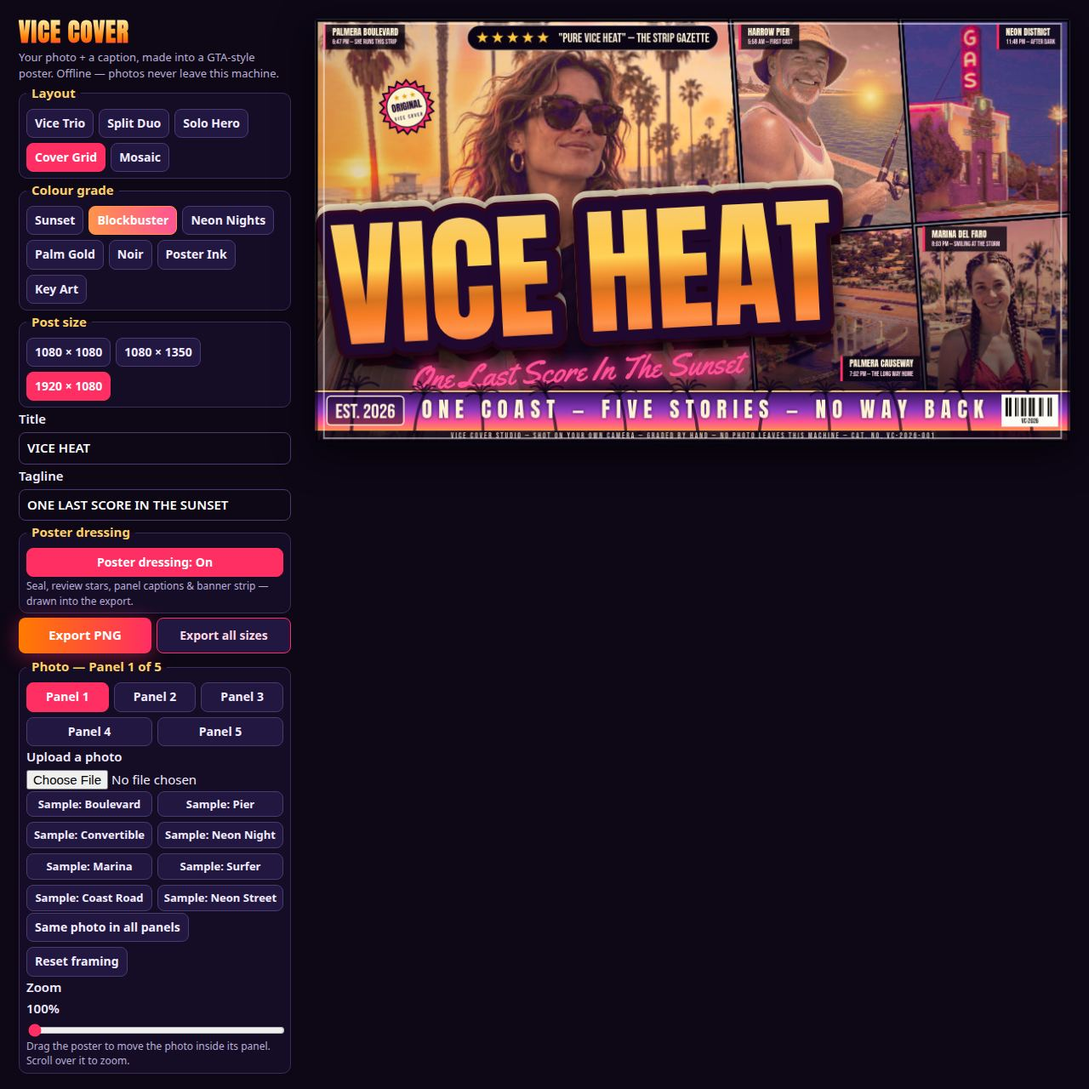
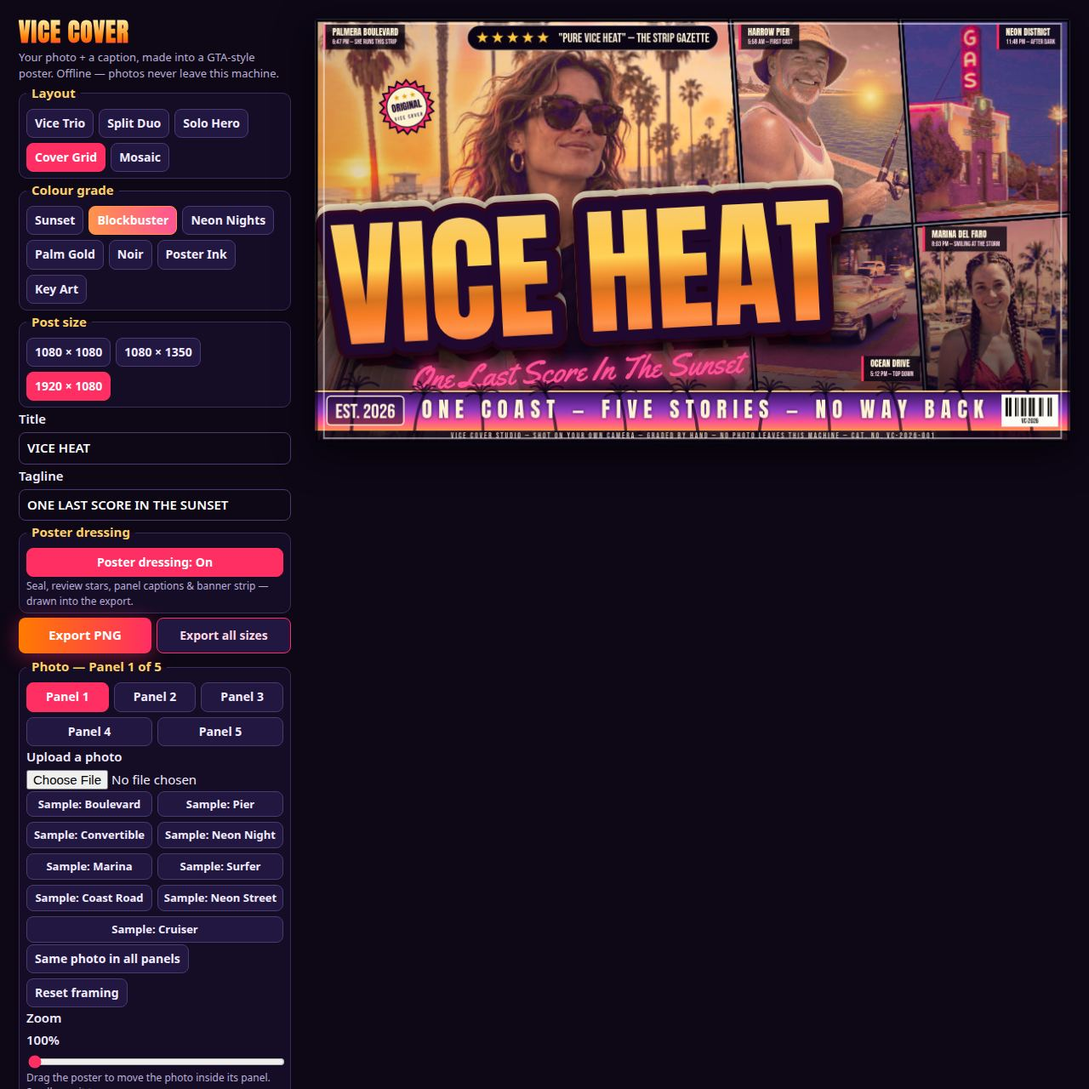
Round 34: cruiser vehicle panel replaces causeway, bold grade

Changed region(s): [[0.0, 0.8438, 0.2812, 1.0], [0.6875, 0.1875, 0.8438, 0.375]]

diff --git a/app/src/shots.js b/app/src/shots.js
@@ -55,31 +55,33 @@ export async function runShot(shot, query, helpers) {
     ? { zoom: 1, oy: 0.85 }
     : undefined;
   // The Blockbuster Grid showcase's scene panels get their own
-  // framings, for the same reason the hero does. The causeway photo
-  // (round 18: an aerial of a Miami causeway — a bridge deck with
-  // cars over turquoise water, the skyline behind) is a wide shot
-  // whose cell (bottom-left, beside the title band) only shows its
-  // lower strip clear of the letters: the showcase zooms and pans
-  // so that strip holds the bridge deck with its cars and the open
-  // water under it, and the panel's chip — which the buried rule
-  // parks low in that same cell — lands on the bay's open water,
-  // clear of the deck, the boats and the shore tree. The neon scene
-  // (round 18: a vintage American service station at dusk, its tall
-  // red GAS blade sign lit) is framed so the sign and the station
-  // front read whole in its top-right cell and the panel's chip —
-  // which hangs at that cell's top-right — lands on pure dusk sky,
-  // clear of the sign. Any other scene keeps the renderer's default
-  // framing exactly.
+  // framings, for the same reason the hero does. The cruiser photo
+  // (round 34: the 1960 Impala convertible street scene restored
+  // from round 26 — silver car whole at photo x 0.06–0.83,
+  // y 0.42–0.66, two people aboard small and distant, a foreground
+  // of plain asphalt and sidewalk below) takes the bottom-left cell
+  // the causeway aerial held: the cell only shows its lower strip
+  // clear of the letters, so the showcase frames the window
+  // (photo x 0.03–0.90, y 0.25–0.94 at zoom 1.15) to hold the whole
+  // car in that strip — the car lands at cell y 0.24–0.60, its
+  // front at cell x 0.04 — and the panel's chip, which the buried
+  // rule parks low in that same cell, lands on the asphalt under
+  // the car's tail, clear of the body. The neon scene (round 18: a
+  // vintage American service station at dusk, its tall red GAS blade
+  // sign lit) is framed so the sign and the station front read whole
+  // in its top-right cell and the panel's chip — which hangs at that
+  // cell's top-right — lands on pure dusk sky, clear of the sign.
+  // Any other scene keeps the renderer's default framing exactly.
   const showcaseScene = state.layout === 'grid' && state.grade === 'blockbuster';
-  const coastFrame = (showcaseScene && third.endsWith('coast.jpg'))
-    ? { zoom: 1.35, ox: 0.82, oy: -0.53 }
+  const cruiserFrame = (showcaseScene && third.endsWith('cruiser.jpg'))
+    ? { zoom: 1.15, ox: 0.49, oy: -0.6 }
     : undefined;
   const neonFrame = (showcaseScene && fourth.endsWith('neon.jpg'))
     ? { zoom: 1.1, ox: -0.44, oy: 0.55 }
     : undefined;
   put(0, first, imgA, heroFrame);
   put(1, second, imgB);
-  put(2, third, imgC, coastFrame);
+  put(2, third, imgC, cruiserFrame);
   put(3, fourth, imgD, neonFrame);
   put(4, fifth, imgE);
   put(5, sixth, imgF);

diff --git a/app/src/poster.js b/app/src/poster.js
@@ -136,8 +136,20 @@ export const GRADES = {
     // exempt panel renders pixel-for-pixel as before. Photos not
     // named here — the pier first of all, but also any photo a user
     // loads of their own — keep the base grade exactly.
+    // Round 34: the dose list trades the causeway photo for the
+    // cruiser — the showcase's bottom-left cell takes the bundled
+    // 1960 Impala street scene (restored from round 26, where it ran
+    // in the marina's cell under the BASE grade and lost narrowly to
+    // the marina portrait) at the full dose factor 1, so the cover
+    // gains the vehicle panel every recent judging round found
+    // missing, and the combination the earlier rounds never tested —
+    // this photo, in the causeway's cell, under the bold grade — is
+    // what this round measures. The two aboard wear their faces small
+    // and distant (no close face enters the cover), and the grade's
+    // skin shields run inside the dosed render exactly as they do at
+    // base. The causeway keeps the base grade wherever else it shows.
     boldPanels: {
-      photos: ['boulevard.jpg', 'coast.jpg', 'neon.jpg', 'marina.jpg'],
+      photos: ['boulevard.jpg', 'cruiser.jpg', 'neon.jpg', 'marina.jpg'],
       ramp: [[0, [19, 8, 46]], [0.24, [96, 34, 112]], [0.46, [194, 57, 114]], [0.68, [244, 102, 66]], [0.86, [255, 176, 102]], [1, [255, 228, 172]]],
       mix: 0.58,
       enrich: { sat: 1.38, curve: 0.24 },
@@ -1906,12 +1918,15 @@ const BANNER_LINE = 'ONE COAST — FIVE STORIES — NO WAY BACK';
 const MICROTEXT = 'VICE COVER STUDIO — SHOT ON YOUR OWN CAMERA — GRADED BY HAND — NO PHOTO LEAVES THIS MACHINE — CAT. NO. VC-2026-001';
 
 // Caption chips for the Grid's five panels, in panel order — the
-// bundled scenes: the boulevard hero, the pier fisherman, the palm
-// causeway at last light, the neon walking street, the marina portrait.
+// bundled scenes: the boulevard hero, the pier fisherman, the Ocean
+// Drive cruiser (round 34: the classic-car street scene takes the
+// causeway aerial's cell, under the bold grade — its chip is round
+// 26's, written for this photo and still literally true of it), the
+// neon walking street, the marina portrait.
 const PANEL_CAPTIONS = [
   ['PALMERA BOULEVARD', '6:47 PM — SHE RUNS THIS STRIP'],
   ['HARROW PIER', '5:58 AM — FIRST CAST'],
-  ['PALMERA CAUSEWAY', '7:02 PM — THE LONG WAY HOME'],
+  ['OCEAN DRIVE', '5:12 PM — TOP DOWN'],
   ['NEON DISTRICT', '11:48 PM — AFTER DARK'],
   ['MARINA DEL FARO', '8:03 PM — SMILING AT THE STORM'],
 ];

diff --git a/app/src/main.js b/app/src/main.js
@@ -13,7 +13,7 @@ const zoomVal = document.getElementById('zoomVal');
 const panelLabel = document.getElementById('panelLabel');
 const panelPicks = document.getElementById('panelPicks');
 
-const SAMPLES = ['samples/boulevard.jpg', 'samples/pier.jpg', 'samples/convertible.jpg', 'samples/night.jpg', 'samples/marina.jpg', 'samples/surfer.jpg', 'samples/coast.jpg', 'samples/neon.jpg'];
+const SAMPLES = ['samples/boulevard.jpg', 'samples/pier.jpg', 'samples/convertible.jpg', 'samples/night.jpg', 'samples/marina.jpg', 'samples/surfer.jpg', 'samples/coast.jpg', 'samples/neon.jpg', 'samples/cruiser.jpg'];
 
 const state = {
   layout: 'trio',

diff --git a/app/index.html b/app/index.html
@@ -83,6 +83,7 @@
         <button type="button" data-sample="samples/surfer.jpg">Sample: Surfer</button>
         <button type="button" data-sample="samples/coast.jpg">Sample: Coast Road</button>
         <button type="button" data-sample="samples/neon.jpg">Sample: Neon Street</button>
+        <button type="button" data-sample="samples/cruiser.jpg">Sample: Cruiser</button>
       </div>
       <div class="row">
         <button type="button" id="fillAll">Same photo in all panels</button>

diff --git a/README.md b/README.md
@@ -4,7 +4,7 @@
 [![rank](https://make.fun/badge/gta6-cover-art-01/cleoworks/gta6-cover-art/rank.svg)](https://make.fun/bounty/gta6-cover-art-01/leaderboard?utm_source=github&utm_medium=readme&utm_campaign=gta6-cover-art-01)
 [![reward](https://make.fun/badge/gta6-cover-art-01/cleoworks/gta6-cover-art/reward.svg)](https://make.fun/bounty/gta6-cover-art-01?utm_source=github&utm_medium=readme&utm_campaign=gta6-cover-art-01)
 
-VICE COVER turns your photos and a caption into GTA 6-style poster cover art: multi-panel layouts (Vice Trio, Split Duo, Solo Hero, a five-panel Cover Grid with one hero panel and four satellites, and Mosaic — a nine-panel 3×3 grid in the classic cover pattern whose lettering sits in a title band below the grid, so all nine panels stay fully visible), a sunset-gradient title with a double outline (a polished chrome gradient in Noir; on Blockbuster the sunset family itself — cream into gold into orange — with a dark plum rim and a hard extruded block of maroon-plum shade stepped under the fill, so the lettering sits in the art the way the winning covers' does), a neon script tagline, and seven colour grades (Sunset, Blockbuster — the photographic class: a continuous 256-step gradient map with no posterize at all, so every strand of hair, skin texture and sparkle of sea survives, enriched by a gentle S-curve and a saturation scale around each pixel's own luminance that pushes the sunset deep and warm while skin stays protected — a skin-tone detector moderates the grade's mix and saturation exactly where skin sits, so faces never go tangerine; detected skin whose hue still sits in the magenta sector is rotated toward the warm brown family with its saturation and value preserved, so a magenta-lit face lands in the same colour family as the field's best covers instead of glowing pink; the sun renders in this grade as a soft photographic glow melted into the panel's own light, never a hard vector disc; and in multi-panel layouts each satellite panel's white balance is walked toward the hero panel's — measured per panel from its graded colours, skin exempt from the walk — so the whole grid reads as one world under one sunset — Neon, Palm Gold, Noir, Poster Ink — a bold screen-print duotone with a firmer posterize and a jittered halftone dot screen that lives in smooth highlights — sky, sea, glint — and fades out over detailed texture (fabric, hair) and off bright neutral surfaces like white clothing entirely, never on faces — and Key Art, the painted class described below), all but Key Art and Blockbuster applied as true gradient maps with a light cel-shade posterize. An optional poster dressing — the furniture of a real one-sheet, drawn procedurally into the poster and therefore into every export while it is on — adds a tilted starburst seal, a five-star review line with a pull-quote above the title, a caption chip on every panel of the Cover Grid (a place, a time, a story beat), a banner strip along the foot with drawn palm silhouettes, a spaced-capital slogan, an EST. 2026 chip and a drawn barcode block, and a one-line credit microtext at the very edge. Noir and Poster Ink carry shadow protection: through the shadows their ramps cross-fade to an un-posterized gradient map, so a face sitting in shade — or a whole photo taken at night — keeps its features instead of collapsing into one flat tone; Noir additionally runs an ordered Bayer dither through its posterize, breaking the flat grey plateaus a B/W quantization leaves on faces into a fine print texture that restores their tonal modelling. Key Art paints instead of grading: the photo is first softened on an edge-aware base (repeated downscale–upscale rounds dissolve photographic micro-detail and skin texture while the big shapes and hard contours survive), then mapped through a warm sunset-family ramp posterized to eight cel bands whose transitions are smoothstepped — colour areas read as flat, graded brush strokes — with shadow protection like Noir's, and finished with drawn ink contours: a Sobel pass over the softened base, computed at quarter resolution, inks the strong edges (hair and jaw silhouettes, hat brims, clothing folds, palm fronds, the horizon) in a warm dark plum-brown in two coats — a soft coat whose alpha follows edge strength, plus a second, near-full-strength coat reserved for the strongest contours alone — so the outlines read as drawn at full-frame scale while faces — whose shading gradients sit far below both ink thresholds — stay clean, under a fine paper grain; even the sun is repainted in this grade — a warm painted disc with soft shadow bands and a thin ink outline in the contour family, not the hard-slit clip-art disc of the graded classes — and the ramp's low end leans violet-to-magenta, so painted shadows keep their Vice purple depth. An automatic exposure lift steadies dark photos before grading (measured on the photo's mean luminance; bright photos pass through completely untouched, genuinely very dark photos get a substantially stronger lift whose highlight shoulder keeps lit neon signs separated instead of blown out, and night shots still look like night). Where a layout has more panels than loaded photos, a photo's later showings are mirrored and re-cropped, so a repeat reads as a different moment of the same shoot rather than a copy-paste. Eight bundled sample photos (three bright Vice scenes, a neon night portrait, a marina portrait in a red dress, a surfer carrying her board at golden hour, an aerial causeway with cars crossing turquoise water and a vintage service station under a neon GAS sign at dusk) show the range; drop in any photos of your own, drag to crop each panel, pick a post size (square, portrait or landscape), and export a share-ready PNG — one size, or all three sizes at once. Everything runs locally in the browser — your photos never leave your machine, and the app works fully offline with no network calls and no Rockstar artwork, logos or fonts.
+VICE COVER turns your photos and a caption into GTA 6-style poster cover art: multi-panel layouts (Vice Trio, Split Duo, Solo Hero, a five-panel Cover Grid with one hero panel and four satellites, and Mosaic — a nine-panel 3×3 grid in the classic cover pattern whose lettering sits in a title band below the grid, so all nine panels stay fully visible), a sunset-gradient title with a double outline (a polished chrome gradient in Noir; on Blockbuster the sunset family itself — cream into gold into orange — with a dark plum rim and a hard extruded block of maroon-plum shade stepped under the fill, so the lettering sits in the art the way the winning covers' does), a neon script tagline, and seven colour grades (Sunset, Blockbuster — the photographic class: a continuous 256-step gradient map with no posterize at all, so every strand of hair, skin texture and sparkle of sea survives, enriched by a gentle S-curve and a saturation scale around each pixel's own luminance that pushes the sunset deep and warm while skin stays protected — a skin-tone detector moderates the grade's mix and saturation exactly where skin sits, so faces never go tangerine; detected skin whose hue still sits in the magenta sector is rotated toward the warm brown family with its saturation and value preserved, so a magenta-lit face lands in the same colour family as the field's best covers instead of glowing pink; the sun renders in this grade as a soft photographic glow melted into the panel's own light, never a hard vector disc; and in multi-panel layouts each satellite panel's white balance is walked toward the hero panel's — measured per panel from its graded colours, skin exempt from the walk — so the whole grid reads as one world under one sunset — Neon, Palm Gold, Noir, Poster Ink — a bold screen-print duotone with a firmer posterize and a jittered halftone dot screen that lives in smooth highlights — sky, sea, glint — and fades out over detailed texture (fabric, hair) and off bright neutral surfaces like white clothing entirely, never on faces — and Key Art, the painted class described below), all but Key Art and Blockbuster applied as true gradient maps with a light cel-shade posterize. An optional poster dressing — the furniture of a real one-sheet, drawn procedurally into the poster and therefore into every export while it is on — adds a tilted starburst seal, a five-star review line with a pull-quote above the title, a caption chip on every panel of the Cover Grid (a place, a time, a story beat), a banner strip along the foot with drawn palm silhouettes, a spaced-capital slogan, an EST. 2026 chip and a drawn barcode block, and a one-line credit microtext at the very edge. Noir and Poster Ink carry shadow protection: through the shadows their ramps cross-fade to an un-posterized gradient map, so a face sitting in shade — or a whole photo taken at night — keeps its features instead of collapsing into one flat tone; Noir additionally runs an ordered Bayer dither through its posterize, breaking the flat grey plateaus a B/W quantization leaves on faces into a fine print texture that restores their tonal modelling. Key Art paints instead of grading: the photo is first softened on an edge-aware base (repeated downscale–upscale rounds dissolve photographic micro-detail and skin texture while the big shapes and hard contours survive), then mapped through a warm sunset-family ramp posterized to eight cel bands whose transitions are smoothstepped — colour areas read as flat, graded brush strokes — with shadow protection like Noir's, and finished with drawn ink contours: a Sobel pass over the softened base, computed at quarter resolution, inks the strong edges (hair and jaw silhouettes, hat brims, clothing folds, palm fronds, the horizon) in a warm dark plum-brown in two coats — a soft coat whose alpha follows edge strength, plus a second, near-full-strength coat reserved for the strongest contours alone — so the outlines read as drawn at full-frame scale while faces — whose shading gradients sit far below both ink thresholds — stay clean, under a fine paper grain; even the sun is repainted in this grade — a warm painted disc with soft shadow bands and a thin ink outline in the contour family, not the hard-slit clip-art disc of the graded classes — and the ramp's low end leans violet-to-magenta, so painted shadows keep their Vice purple depth. An automatic exposure lift steadies dark photos before grading (measured on the photo's mean luminance; bright photos pass through completely untouched, genuinely very dark photos get a substantially stronger lift whose highlight shoulder keeps lit neon signs separated instead of blown out, and night shots still look like night). Where a layout has more panels than loaded photos, a photo's later showings are mirrored and re-cropped, so a repeat reads as a different moment of the same shoot rather than a copy-paste. Nine bundled sample photos (three bright Vice scenes, a neon night portrait, a marina portrait in a red dress, a surfer carrying her board at golden hour, an aerial causeway with cars crossing turquoise water, a vintage service station under a neon GAS sign at dusk and a 1960 Impala convertible crossing a city intersection at dusk) show the range; drop in any photos of your own, drag to crop each panel, pick a post size (square, portrait or landscape), and export a share-ready PNG — one size, or all three sizes at once. Everything runs locally in the browser — your photos never leave your machine, and the app works fully offline with no network calls and no Rockstar artwork, logos or fonts.
 
 Open `app/index.html` in a browser to use it.
 
@@ -23,6 +23,10 @@ The two scene samples are CC0 (public domain) photographs, downloaded once and b
 - `app/samples/coast.jpg` — "Miami Beach Ocean Bridge Sea": an aerial view of a Miami causeway — cars crossing a bridge over turquoise water, boats below, the skyline behind. Source: rawpixel (via Openverse), CC0. https://www.rawpixel.com/image/3338452/free-photo-image-aerial-view-boardwalk-boat
 - `app/samples/neon.jpg` — "1936-vintage Kensinger service station, still in use": a vintage American service station at dusk under a tall red neon GAS sign, pumps at the kerb. Source: rawpixel (via Openverse; Library of Congress image), CC0. https://www.rawpixel.com/image/8041950/photo-image-sky-vintage-neon
 
+The classic-car sample is a Pexels photograph (Pexels License — free to use, no attribution required; credited here anyway), downloaded once and bundled on the same offline terms (first fielded in round 26; restored in round 34):
+
+- `app/samples/cruiser.jpg` — "Vintage convertible car driving through a city street": a 1960 Chevrolet Impala convertible, top down, crossing a city intersection at dusk with two people aboard. Photo by YoItsCapture on Pexels. https://www.pexels.com/photo/17774191/
+
 Round 12 in brief: the Cover Grid showcase mixes portraits with these two cinematic scenes (the causeway and the neon street take the satellite panels that used to hold the convertible driver and the night portrait — both still bundled samples, one tap away in the editor); the dressed Grid's title became a bottom band fitted to two-thirds of the frame width, in the winning covers' pattern; Blockbuster's skin taming was strengthened (wider detector gates, deeper mix/saturation floors) until the pier fisherman's measured skin saturation fell clearly below its round-11 value while the heroine's stayed in its passed class; the starburst seal moved off the gutter — where a spike touched the fisherman's shoulder — onto the causeway panel's open sea; and the banner strip's centre line now speaks a second beat ("FIVE FACES — ONE COAST — NO WAY BACK") instead of repeating the script tagline.
 
 Round 13 in brief: the round-12 band had buried the neon street (only a dark strip of it showed) and cut the heroine at the neck, leaving a floating head. The two scene panels traded cells — the neon street now takes the top-right cell, the one satellite the lettering band never reaches, so the whole scene reads; the causeway scenery takes the bottom-left cell behind the band, the backdrop role scenery plays on the winning covers. The hero shot is reframed from a tight crop to a mid shot: her head, shoulders and chest stay above the title's top edge and the letters ride her car and belt line instead of her neck. The script tagline is fitted narrower and pulled left until its measured ink and glow clear every subject on the cover. The banner line is corrected to count what the cover actually shows ("ONE COAST — FIVE STORIES — NO WAY BACK" — three faces, two scenes, five panels). Blockbuster gains the magenta hue tame described above: measured on the export, the fisherman's cheek moved from hue ~343 to ~11 and his beard from ~349 to ~9, at essentially unchanged saturation, while the heroine's and the marina subject's skin measured unmoved. The seal shrank by about a fifth; a pixel scan proved the causeway cell has no clean sky at the seal's radius (its visible strip is all palm crown and trunk), so the seal moved to the hero panel's sky, measured clean — pure sky, clear of both palm trunks, the chip, the review pill and her hair.
@@ -38,6 +42,8 @@ Round 18 in brief: two rounds of judging converged on the same lesson — the ca
 Round 21 in brief: a full sweep of the CC0 pool (round 20) proved no downloadable photograph beats the bundled heroine shot on face, convertible and sunset together — every molten-sky candidate lost the face — so the hero sample itself was re-graded at the file level instead: a sky-only edit of `app/samples/boulevard.jpg`. The sky was mapped from pixel sampling (pale gold: hue 23–47°, saturation 0.13–0.38) and intensified inside a feathered colour-and-proximity mask — the mask follows the sky's own colour gate (bright, warm, unsaturated), blurred wide, suppressed near every foreground edge and over a dedicated skin detector, and re-checked against the raw gate per pixel, so hair, skin, clothing and the car receive exactly zero edit. Inside the mask the hue is walked along a vertical molten gradient (magenta-pink at the top of the frame through red to orange at the horizon, golden again inside the sun's glow) and saturation is scaled up roughly two-to-threefold: measured on the edited file, the sky's mean saturation rose from 0.13/0.29/0.38 (top/mid/low bands) to 0.46/0.54/0.54, with band hues landing at 0°/21°/32°. Safety was proven, not assumed: skin patches (cheek, forehead, neck, hand) measure hue-identical within 0.7° and saturation within 0.002; 28 samples along the hairline moved at most 3.9° with zero new magenta pixels in the hair; and outside the mask the mean per-channel difference is 1.2 (re-encode noise). The render pipeline is untouched — no grade, geometry, dressing or framing changed this round.
 
 Round 22 in brief: the repair round for round 21's two measured failures. (1) Skin versus the white-balance walk: the harmonize walk exempts skin through a graded-pixel shield, but gate-by-gate measurement of the walked skin on the pier panel blamed two gates — the red-blue ramp (pink-lit and shaded skin rides blue high, so its red-blue gap fell under the ramp's foot: 10,901 of the chest's 11,424 walked skin pixels) and the brightness fade (sunlit skin above 0.92 lost its shield: 3,914 on the face). The unshielded minority sat interleaved with exempt skin under the panel's strongest walk, and that interleave printed as a pink-magenta mottle on the fisherman's face, neck and chest in the Duo portrait. The shield is now the maximum of the original test and two companions sharing its outer gates — a shaded/pink-lit test (red-blue ramp from 0.015, brightness fade at 0.94–0.995) and a sunlit test (no brightness fade) — and measured on the same pixels the walked skin falls from 5.0/6.1/13.6% (face/neck/chest) to 0.0/0.0/0.03%, and on the Grid's pier panel from 10.2% to 0.01%. Non-skin keeps walking and the gains themselves are computed from un-walked renders, so the cover's colour unity is unchanged. (2) The molten sky, rebuilt from the round-19 original of `app/samples/boulevard.jpg` rather than stacked on round 21's edit: round 21's sky read as a flat artificial wash with coarse stepped banding in the top band. The new edit maps hue and saturation through smooth continuous functions of vertical position (a cosine-interpolated molten profile, no discrete steps), adds fine photographic grain (σ ≈ 1.2 levels, luminance-led) inside the sky mask only, to break the banding the grade's tonal steps would otherwise print, and cools the top band by half a step from round 21 — measured on a fixed sky mask, the top band keeps 44% of round 21's hue shift and 46% of its saturation shift, while the sun zone measures identical to round 21 (hue 23.7°, saturation 0.401 against 23.3°/0.403) and the horizon is untouched. Protection is round 21's method, hardened where measurement demanded it: the warm sector is tight (the heroine's mauve shirt shadow at hue ~335° passed a wide sector and took a salmon smear in an early pass — the sector now ends at 44° from the warm centre, and a paleness gate calibrated on the sunlit shoulder ridge, saturation 0.13–0.16 against the true glow's 0.42, excludes bright cloth outright). Final numbers: 29 hairline samples move at most 3.5° with zero new magenta; face/neck skin averages +0.03° of hue; the shirt block differs from the original by 0.70 mean (re-encode noise, cleaner than round 21's own 0.79); outside the mask the mean difference is 1.00. Nothing else moved: geometry, title, dressing, the other samples and every other grade path render as round 21 left them.
+
+Round 34 in brief: the vehicle panel every recent judging round found missing. The Blockbuster Grid showcase's weakest cell — the causeway aerial in the bottom-left satellite, most of it buried under the title band, reading as a dark filler strip — trades its photograph for the bundled cruiser (round 26's 1960 Impala street scene, restored above), and the combination no earlier round tested is the one measured here: this photo, in the causeway's cell, under round 32's selective bold grade at the full dose factor 1 (in round 26 it ran in the marina's cell under the base grade and lost narrowly to the marina portrait; in rounds 24–25 the cell's classic-car beat was a front clip that read as a fender macro). The photo is framed for this cell (zoom 1.15, ox 0.49, oy −0.60: window at photo x 0.03–0.90, y 0.25–0.94), so the whole car — nose, windshield with its two small distant occupants, tail fin, wheels — lands at cell y 0.24–0.60 in the strip that clears the lettering, and the panel's chip takes round 26's text for this photo (OCEAN DRIVE — 5:12 PM — TOP DOWN, still literally true of it) and rides the asphalt under the car's tail, clear of the body. Nothing else moved, measured on the lossless exports: every differing pixel of the landscape cover (122,869) sits inside the replaced cell's polygon — six of them on the shared divider's anti-aliased edge — the hero, pier, GAS and marina panels measure zero differing pixels in their own territory, the footer band outside the cell is untouched, and the Duo portrait render is pixel-identical to round 32. Colour, honestly: the bold dose is not free on this hazy source — the car box measures mean saturation 0.652 and a magenta-sector share of 30.5%, the bold ramp's plum claiming the shaded street and chrome harder than round 26's base grade claimed them (its lamp/chrome boxes then measured 11.6–13.1%), the silver paint warming to champagne-pink; the panel reads as the cover's darkest, plumdest satellite, in the same family as the GAS panel's night. The two faces aboard stay small and distant — no close face enters the cover — and the grade's skin shields run inside the dosed render as everywhere else.
 
 ---
 
